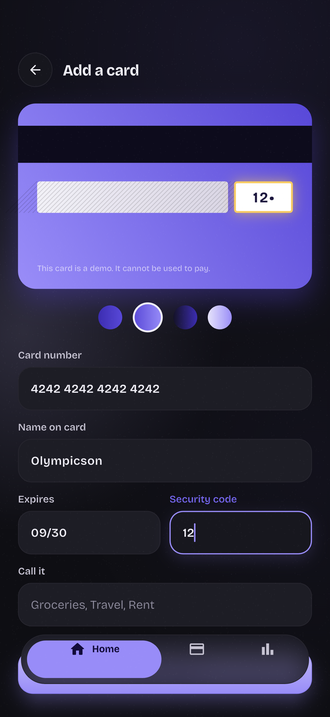
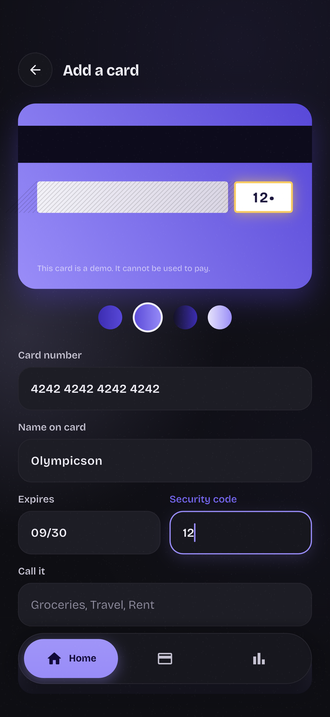
Tab bar: centred content, pill sized to its label, fade behind; stamp lands clear of the barcode
The icon and label now sit in the middle of the pill, the pill is as
wide as its label needs, the bar is more solid glass with a shadow, and
lists fade out before they reach it. The PAID stamp lands in its own
blank band on the receipt instead of across the barcode.

Changed region(s): [[0.0303, 0.8898, 0.9697, 1.0]]

diff --git a/lib/widgets/tab_bar.dart b/lib/widgets/tab_bar.dart
@@ -1,3 +1,4 @@
+import 'dart:math' as math;
 import 'dart:ui' as ui;
 
 import 'package:flutter/material.dart';
@@ -15,7 +16,9 @@ class TabItem {
 }
 
 /// A floating frosted bar. A pill of accent slides under the current tab,
-/// stretching as it travels.
+/// sized to fit its icon and label and stretching as it travels; the other
+/// tabs share what is left. Content scrolling underneath fades out before
+/// it reaches the bar.
 class GlassTabBar extends StatelessWidget {
   const GlassTabBar({
     super.key,
@@ -28,79 +31,104 @@ class GlassTabBar extends StatelessWidget {
   final int index;
   final ValueChanged<int> onTap;
 
+  static const _height = 68.0, _inset = 7.0, _icon = 23.0, _gap = 8.0, _pad = 18.0;
+
   @override
   Widget build(BuildContext context) {
     final p = context.palette;
-    return Padding(
-      padding: EdgeInsets.fromLTRB(
-        28,
-        0,
-        28,
-        MediaQuery.paddingOf(context).bottom + 10,
+    final label = Theme.of(context).textTheme.labelMedium!.copyWith(fontWeight: FontWeight.w700);
+    final scaler = MediaQuery.textScalerOf(context);
+    final bottom = MediaQuery.paddingOf(context).bottom;
+    // How wide each tab's pill needs to be to show its icon and label.
+    final needs = [
+      for (final item in items)
+        _icon + _gap + _pad * 2 + (TextPainter(text: TextSpan(text: item.label, style: label), textDirection: TextDirection.ltr, textScaler: scaler, maxLines: 1)..layout()).width,
+    ];
+
+    return DecoratedBox(
+      // Lists fade into the paper before they reach the bar.
+      decoration: BoxDecoration(
+        gradient: LinearGradient(
+          begin: Alignment.topCenter,
+          end: Alignment.bottomCenter,
+          colors: [p.paper.withValues(alpha: 0), p.paper.withValues(alpha: 0.85), p.paper],
+          stops: const [0, 0.45, 1],
+        ),
       ),
-      child: ClipRRect(
-        borderRadius: BorderRadius.circular(32),
-        child: BackdropFilter(
-          filter: ui.ImageFilter.blur(sigmaX: 22, sigmaY: 22),
-          child: Container(
-            height: 66,
-            decoration: BoxDecoration(
-              color: p.card.withValues(alpha: 0.72),
-              borderRadius: BorderRadius.circular(32),
-              border: Border.all(color: p.line),
-            ),
-            padding: const EdgeInsets.all(7),
-            child: LayoutBuilder(
-              builder: (context, box) => TweenAnimationBuilder<double>(
-                tween: Tween(end: index.toDouble()),
-                duration: Motion.medium,
-                curve: Motion.spring,
-                builder: (_, v, _) {
-                  // The active tab widens to fit its label, the rest share
-                  // what is left; widths follow the pill as it slides.
-                  final weights = [for (var i = 0; i < items.length; i++) 1 + 0.9 * (1 - (v - i).abs()).clamp(0.0, 1.0)];
-                  final sum = weights.fold(0.0, (a, b) => a + b);
-                  final widths = [for (final x in weights) box.maxWidth * x / sum];
-                  final k = v.floor().clamp(0, items.length - 1);
-                  final f = v - k;
-                  var left = 0.0;
-                  for (var i = 0; i < k; i++) {
-                    left += widths[i];
-                  }
-                  left += f * widths[k];
-                  final width = k + 1 < items.length ? widths[k] + (widths[k + 1] - widths[k]) * f : widths[k];
-                  // Stretch while moving, by how far from a whole tab it is.
-                  final stretch = 1 - ((v - v.round()).abs() * 2 - 1).abs();
-                  return Stack(
-                    children: [
-                      Positioned(
-                        left: left - stretch * 8,
-                        width: width + stretch * 16,
-                        top: 0,
-                        bottom: 0,
-                        child: Container(
-                          decoration: BoxDecoration(
-                            color: p.accent,
-                            borderRadius: BorderRadius.circular(26),
-                          ),
-                        ),
-                      ),
-                      Row(
+      child: Padding(
+        padding: EdgeInsets.fromLTRB(24, 22, 24, bottom + 10),
+        child: DecoratedBox(
+          decoration: BoxDecoration(
+            borderRadius: BorderRadius.circular(_height / 2),
+            boxShadow: [BoxShadow(color: p.shadow, blurRadius: 24, offset: const Offset(0, 10))],
+          ),
+          child: ClipRRect(
+            borderRadius: BorderRadius.circular(_height / 2),
+            child: BackdropFilter(
+              filter: ui.ImageFilter.blur(sigmaX: 24, sigmaY: 24),
+              child: Container(
+                height: _height,
+                padding: const EdgeInsets.all(_inset),
+                decoration: BoxDecoration(
+                  color: p.card.withValues(alpha: 0.88),
+                  borderRadius: BorderRadius.circular(_height / 2),
+                  border: Border.all(color: p.line),
+                ),
+                child: LayoutBuilder(
+                  builder: (context, box) => TweenAnimationBuilder<double>(
+                    tween: Tween(end: index.toDouble()),
+                    duration: Motion.medium,
+                    curve: Motion.spring,
+                    builder: (_, v, _) {
+                      final n = items.length;
+                      final w = box.maxWidth;
+                      // How close each tab is to being the current one (they
+                      // sum to one while the pill slides between two).
+                      final near = [for (var i = 0; i < n; i++) (1 - (v - i).abs()).clamp(0.0, 1.0)];
+                      final extra = [for (var i = 0; i < n; i++) math.max(0.0, (math.min(needs[i], w * 0.6) - w / n) * n / (n - 1))];
+                      final grow = [for (var i = 0; i < n; i++) extra[i] * near[i]];
+                      final base = (w - grow.fold(0.0, (a, b) => a + b)) / n;
+                      final widths = [for (var i = 0; i < n; i++) base + grow[i]];
+                      final k = v.floor().clamp(0, n - 1);
+                      final f = (v - k).clamp(0.0, 1.0);
+                      var left = 0.0;
+                      for (var i = 0; i < k; i++) {
+                        left += widths[i];
+                      }
+                      left += f * widths[k];
+                      final width = k + 1 < n ? widths[k] + (widths[k + 1] - widths[k]) * f : widths[k];
+                      // Stretch while moving, by how far from a whole tab it is.
+                      final stretch = 1 - ((v - v.round()).abs() * 2 - 1).abs();
+                      return Stack(
+                        fit: StackFit.expand,
                         children: [
-                          for (var i = 0; i < items.length; i++)
-                            SizedBox(
-                              width: widths[i],
-                              child: _Tab(
-                                item: items[i],
-                                active: i == index,
-                                onTap: () => onTap(i),
+                          Positioned(
+                            left: left - stretch * 6,
+                            width: width + stretch * 12,
+                            top: 0,
+                            bottom: 0,
+                            child: DecoratedBox(
+                              decoration: BoxDecoration(
+                                borderRadius: BorderRadius.circular(_height / 2),
+                                gradient: LinearGradient(begin: Alignment.topCenter, end: Alignment.bottomCenter, colors: [Color.lerp(p.accent, p.accentGlow, 0.18)!, p.accent]),
+                                boxShadow: [BoxShadow(color: p.accent.withValues(alpha: 0.35), blurRadius: 14, offset: const Offset(0, 5))],
                               ),
                             ),
+                          ),
+                          Row(
+                            children: [
+                              for (var i = 0; i < n; i++)
+                                SizedBox(
+                                  width: widths[i],
+                                  child: _Tab(item: items[i], active: i == index, label: label, onTap: () => onTap(i)),
+                                ),
+                            ],
+                          ),
                         ],
-                      ),
-                    ],
-                  );
-                },
+                      );
+                    },
+                  ),
+                ),
               ),
             ),
           ),
@@ -111,21 +139,17 @@ class GlassTabBar extends StatelessWidget {
 }
 
 class _Tab extends StatelessWidget {
-  const _Tab({required this.item, required this.active, required this.onTap});
+  const _Tab({required this.item, required this.active, required this.label, required this.onTap});
 
   final TabItem item;
   final bool active;
+  final TextStyle label;
   final VoidCallback onTap;
 
   @override
   Widget build(BuildContext context) {
     final p = context.palette;
     final color = active ? p.onAccent : p.inkSoft;
-    final icon = Icon(
-      active ? item.activeIcon : item.icon,
-      color: color,
-      size: 23,
-    );
     return Semantics(
       button: true,
       selected: active,
@@ -137,70 +161,65 @@ class _Tab extends StatelessWidget {
           HapticFeedback.selectionClick();
           onTap();
         },
-        child: Row(
-          mainAxisAlignment: MainAxisAlignment.center,
-          children: [
-            Stack(
-              clipBehavior: Clip.none,
-              children: [
-                icon,
-                if (item.badge > 0)
-                  Positioned(
-                    right: -9,
-                    top: -6,
-                    child: TweenAnimationBuilder<double>(
-                      key: ValueKey(item.badge),
-                      tween: Tween(begin: 0.4, end: 1),
-                      duration: Motion.medium,
-                      curve: Motion.spring,
-                      builder: (_, s, child) =>
-                          Transform.scale(scale: s, child: child),
-                      child: Container(
-                        constraints: const BoxConstraints(minWidth: 18),
-                        height: 18,
-                        padding: const EdgeInsets.symmetric(horizontal: 5),
-                        decoration: BoxDecoration(
-                          color: active ? p.onAccent : p.accent,
-                          borderRadius: BorderRadius.circular(9),
-                          border: Border.all(color: p.card, width: 1.5),
-                        ),
-                        alignment: Alignment.center,
-                        child: Text(
-                          '${item.badge}',
-                          style: TextStyle(
-                            fontFamily: 'Bricolage',
-                            fontSize: 10.5,
-                            fontWeight: FontWeight.w800,
-                            color: active ? p.accentDeep : p.onAccent,
+        child: Center(
+          child: Row(
+            mainAxisSize: MainAxisSize.min,
+            children: [
+              // The icon gives a small spring when its tab is picked.
+              TweenAnimationBuilder<double>(
+                key: ValueKey(active),
+                tween: Tween(begin: active ? 0.7 : 1, end: 1),
+                duration: Motion.long,
+                curve: Curves.elasticOut,
+                builder: (_, s, child) => Transform.scale(scale: s, child: child),
+                child: Stack(
+                  clipBehavior: Clip.none,
+                  children: [
+                    Icon(active ? item.activeIcon : item.icon, color: color, size: GlassTabBar._icon),
+                    if (item.badge > 0)
+                      Positioned(
+                        right: -9,
+                        top: -7,
+                        child: TweenAnimationBuilder<double>(
+                          key: ValueKey(item.badge),
+                          tween: Tween(begin: 0.4, end: 1),
+                          duration: Motion.medium,
+                          curve: Motion.spring,
+                          builder: (_, s, child) => Transform.scale(scale: s, child: child),
+                          child: Container(
+                            constraints: const BoxConstraints(minWidth: 18),
+                            height: 18,
+                            padding: const EdgeInsets.symmetric(horizontal: 5),
+                            decoration: BoxDecoration(
+                              color: active ? p.onAccent : p.accent,
+                              borderRadius: BorderRadius.circular(9),
+                              border: Border.all(color: active ? p.accent : p.card, width: 1.5),
+                            ),
+                            alignment: Alignment.center,
+                            child: Text(
+                              '${item.badge}',
+                              style: TextStyle(fontFamily: 'Bricolage', fontSize: 10.5, fontWeight: FontWeight.w800, color: active ? p.accentDeep : p.onAccent),
+                            ),
                           ),
                         ),
                       ),
-                    ),
-                  ),
-              ],
-            ),
-            Flexible(
-              child: AnimatedSize(
-                duration: Motion.medium,
-                curve: Motion.settle,
-                child: active
-                    ? Padding(
-                        padding: const EdgeInsets.only(left: 8),
-                        child: Text(
-                          item.label,
-                          maxLines: 1,
-                          overflow: TextOverflow.ellipsis,
-                          style: Theme.of(context).textTheme.labelMedium!
-                              .copyWith(
-                                color: color,
-                                fontWeight: FontWeight.w700,
-                              ),
-                        ),
-                      )
-                    : const SizedBox.shrink(),
+                  ],
+                ),
               ),
-            ),
-          ],
+              Flexible(
+                child: AnimatedSize(
+                  duration: Motion.medium,
+                  curve: Motion.settle,
+                  child: active
+                      ? Padding(
+                          padding: const EdgeInsets.only(left: GlassTabBar._gap),
+                          child: Text(item.label, maxLines: 1, overflow: TextOverflow.clip, softWrap: false, style: label.copyWith(color: color)),
+                        )
+                      : const SizedBox.shrink(),
+                ),
+              ),
+            ],
+          ),
         ),
       ),
     );

diff --git a/lib/widgets/receipt.dart b/lib/widgets/receipt.dart
@@ -154,16 +154,10 @@ class _PrintedReceiptState extends State<PrintedReceipt> with TickerProviderStat
                   child: Align(
                     alignment: Alignment.bottomCenter,
                     heightFactor: _out,
-                    child: Stack(
-                      clipBehavior: Clip.none,
-                      children: [
-                        child!,
-                        Positioned(right: 22, bottom: 92, child: _Stamp(t: _stamp.value, text: widget.stamp, color: Palette.light.accent)),
-                      ],
-                    ),
+                    child: child,
                   ),
                 ),
-                child: _Paper(title: widget.title, amount: widget.amount, lines: widget.lines, code: widget.code),
+                child: _Paper(title: widget.title, amount: widget.amount, lines: widget.lines, code: widget.code, stamp: _stamp, stampText: widget.stamp),
               ),
             ),
           ),
@@ -176,10 +170,13 @@ class _PrintedReceiptState extends State<PrintedReceipt> with TickerProviderStat
 /// Thermal paper is white in any light, so the paper always uses the light
 /// palette.
 class _Paper extends StatelessWidget {
-  const _Paper({required this.title, required this.amount, required this.lines, required this.code});
+  const _Paper({required this.title, required this.amount, required this.lines, required this.code, required this.stamp, required this.stampText});
 
-  final String title, amount, code;
+  final String title, amount, code, stampText;
   final List<ReceiptLine> lines;
+
+  /// The stamp lands in its own blank band, clear of the text and barcode.
+  final Animation<double> stamp;
 
   @override
   Widget build(BuildContext context) {
@@ -218,7 +215,15 @@ class _Paper extends StatelessWidget {
               ),
             const SizedBox(height: 14),
             const _Dashes(color: Color(0xFFD5D1DD)),
-            const SizedBox(height: 18),
+            SizedBox(
+              height: 92,
+              child: Center(
+                child: AnimatedBuilder(
+                  animation: stamp,
+                  builder: (_, _) => _Stamp(t: stamp.value, text: stampText, color: p.accent),
+                ),
+              ),
+            ),
             SizedBox(height: 46, child: CustomPaint(painter: _BarcodePainter(code, p.ink))),
             const SizedBox(height: 6),
             Text(code, textAlign: TextAlign.center, style: label.copyWith(letterSpacing: 3)),
